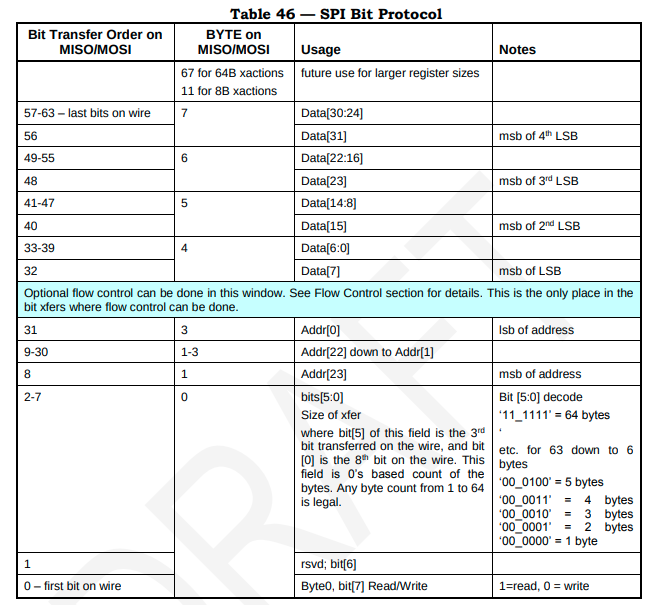
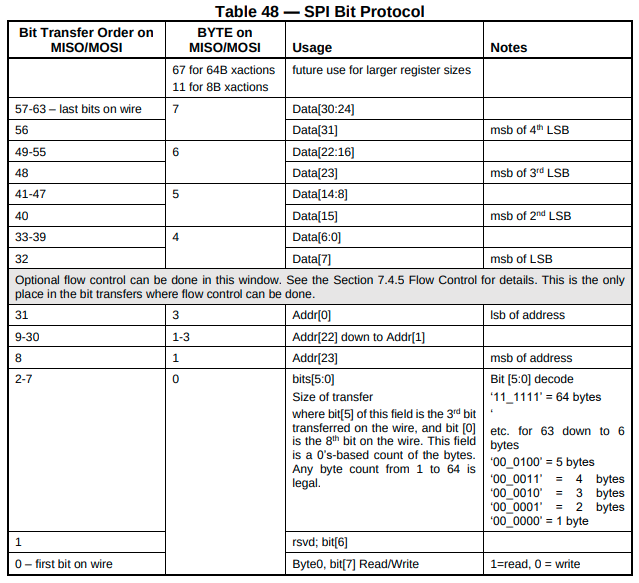
docs: update SPI interface description and LPC interface

Changed region(s): [[0.0, 0.0, 1.0, 1.0]]

diff --git a/docs/tpm_lpc_spi_interface.md b/docs/tpm_lpc_spi_interface.md
@@ -1,0 +1,141 @@
+# TPM LPC/SPI interface
+
+LPC and SPI has been described in
+[PC Client Platform TPM profile](https://trustedcomputinggroup.org/wp-content/uploads/PC-Client-Specific-Platform-TPM-Profile-for-TPM-2p0-v1p05p_r14_pub.pdf).
+
+## LPC
+
+LPC has been described in section 7.3.
+
+- TPM interrupts
+  - TPM uses LPC SIRQ (also known as SERIRQ) for signaling interrupts.
+  - Unfortunatelly, serialized interrupts are not described in Intel LPC
+    specification.
+    [LPC WikiPedia article](https://en.wikipedia.org/wiki/Low_Pin_Count) has
+    some information available and
+    [Serialized IRQ for PCI](https://web.archive.org/web/20071028030435/http://www.smsc.com/main/tools/papers/serirq60.doc).
+  - The IRQ which which TPM may trigger is configured by Host by writing
+    to `TPM_INT_VECTOR_x` register (see Table 38).
+- TPM uses specific read/write cycles for communication with Host
+  - LPC protocol defines 2 fields (START and CYCTYPE, both 4-bit long) which
+    determine LPC cycle type. TPM uses its own cycle type where START=0101
+    always. CYCTYPE=0010 for TPM write cycle and CYCTYPE=0000 for TPM read
+    cycle.
+  - TPM **must** verify cycle type and ignore non-TPM cycles.
+- LPC data transfer
+  - Table 43 and 44 show LPC frame format
+  ![](images/tpm2_lpc_write.png)
+  ![](images/tpm2_lpc_read.png)
+  - ADDR field contains 16-bit TPM register address. See Table 9 for details how
+    TPM MMIO space maps to register address emitted on the bus.
+    ![](images/tpm2_locality_address.png)
+  - It should be noted that LPC can transfer only a single data byte (DATA low
+    and high fields). Please note that the lowest nibble (4 bits) are transfered
+    first and then the highest 4 bits.
+  - LPC has native flow control, see
+  [Intel LPC specification](https://www.intel.com/content/dam/www/program/design/us/en/documents/low-pin-count-interface-specification.pdf)
+  section `4.2.1.8` for details.
+
+## SPI
+
+SPI has been described in-depth in section 7.4.
+
+- TPM interrupts
+  - TPM must implement PIRQ# pin. See section 7.4.3.
+  - PIRQ# is active-low, TPM connects PIRQ# to ground to trigger interrupt.
+  - TPM **must not** implement an internal PIRQ# pull-up.
+  - Prior to triggering interrupts TPM **must** set interrupt status registers
+    accordingly.
+  - TPM **must not** assert another interrupt until it receives TPM_EOI.
+- Flow control
+  - Contrary to LPC, SPI does not have native flow control. TPM flow control on
+    SPI is a non-standard behaviour, not defined by SPI specification.
+  - TPM may insert wait state to delay data transfer (from Host to TPM).
+  - TPM **must** insert wait state when it's internal FIFO if full or accept the
+    transaction.
+    > The TPM, if it doesn’t insert a wait state at the designated point must
+    > accept the transaction, if the transaction doesn’t cross a register
+    > boundary. If the transaction crosses a register boundary, the TPM may
+    > choose to accept all the data and discard the data that exceeds the size
+    > limit for that register as long as doing so does not cause a change to the
+    > state of any adjacent register. 
+  - Usually TPM is allowed to insert as many wait states (each wait state is 8
+    clock cycles) as it wants, except during read of a few registers where it is
+    allowed to insert only one wait cycle. TPM cannot insert more than 1 wait
+    cycle for the following registers: TPM_ACCESS_x TPM_STS_x
+    TPM_INTF_CAPABILITY TPM_INT_ENABLE TPM_INT_STATUS TPM_INT_VECTOR TPM_DID
+    TPM_VID.
+  - TPM **must** insert wait state if Host attempts to write data without
+    checking TPM status register to see if TPM is ready.
+    > For writes, the TPM is required to insert wait states if software
+    > attempts to write data without waiting for the TPM to transition to the
+    > Ready state.
+- Data transmission (see section 7.4.6 for details)
+  - TPM uses SPI mode 0 (CPHA=0, CPOL=0), no other modes are supported.
+  - SPI packet is outlined in Table 48
+  - Data transfer starts from the most significant bit (MSB) and ends on the
+    least significant bit (LSB)
+  ![](images/tpm2_spi_protocol.png)
+  - The first bit transferred determines whether transaction is read or write.
+  - This is followed by 6 bit length from 1 byte to 64 bytes. This is length of
+    the data payload, excludiong 32-bit header.
+  - Length is followed by 24-bit register address, the highest byte is always
+    0xD4. See Table 9 for details how TPM MMIO space maps to register address
+    emitted on the bus.
+    ![](images/tpm2_locality_address.png)
+
+## TPM register interface
+
+According to section 6.3.1 Host may attempt to read less bytes than there
+actually is in register, TPM must handle this, it must also handle read from the
+middle of register, e.g. if we have a 32-bit register at 0x20, 1 byte read from
+0x20 must yield the first byte of that register, read from 0x21 must yield the
+second byte from that register.
+
+Software must never attempt to cross register size in a same transfer. In case
+of LPC this won't be noticed by TPM as all multi-byte LPC transfers are split
+into multiple transfers, e.g. if hosts writes 0x11223344 to register 0x10 on LPC
+it will appear as
+- 0x11 write to 0x10
+- 0x22 write to 0x11
+- 0x33 write to 0x12
+- 0x44 write to 0x13
+
+Even if register boundary were crossed this doesn't make any difference for TPM.
+In case of SPI data payload of a single transfer cannot be bigger than size of
+register and cannot cross register boundary.
+TBD: how should this be handled? TPM specification says:
+> For SPI, if a TPM receives an access request with a length that exceeds the
+> size of the register specified in the transaction address:
+> (...)
+> b. Writes:
+>   The TPM SHALL update the register designated by the start address.
+>   The TPM MAY update additional, adjacent registers within the targeted
+>   address range.
+>   The TPM SHALL NOT change the state of adjacent registers if the writes to
+>   that register are dropped.
+>
+> The TPM SHOULD NOT abort (as defined in Section 6.5.1.1 Bus Aborts) an entire
+> transaction that crosses a register boundary.
+
+
+TPM must implement the following registers (non-exauhstive list):
+- TPM_DID_VID_x - contains Vendor and Device ID of the TPM, see **Table 13** for
+  details.
+- TPM_RID_x - contains revision ID, see **Table 14 for details**.
+- TPM_INTERFACE_ID_x - mandatory register, see **Table 15**.
+- interrupt control/status registers
+- other registers are required, **Table 19** for FIFO interface requirements.
+
+
+## TPM commands
+
+There are two interfaces for sending TPM commands and reading back responses,
+one is CRB not covered here and another FIFO. See section 6.5.2 for details
+about FIFO mode.
+
+In FIFO mode command is written to `TPM_DATA_FIFO_x` register. Host writes
+entire command packet to FIFO and triggers command execution by setting
+`tpmGo` in the `TPM_STS` (see **Table 21**) register which triggers command
+execution. When response is available TPM signals it by setting `dataAvail` bit
+in status register. Host can now read response from `TPM_DATA_FIFO_x`.
